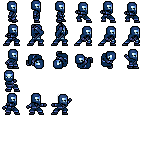
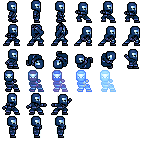
Refined casting animation.

diff --git a/lib/game/entities/classes/ninja.js b/lib/game/entities/classes/ninja.js
@@ -60,7 +60,7 @@ ig.module (
             this.addAnim('fall', 1, [17], true);
             this.addAnim('attackGround', this.attackSpeed, [6, 7, 8, 9, 10, 11], true);
             this.addAnim('attackAir', this.attackSpeed, [6, 7, 8, 9, 10, 11], true);
-            this.addAnim('cast', 1, [17], true);
+            this.addAnim('cast', 0.1, [30, 30, 30, 31, 32, 32, 31, 30], true);
             this.addAnim('throw', 0.1, [24, 25, 26, 26, 26], true);
 
             this.parent();
@@ -102,9 +102,9 @@ ig.module (
             this.stateMachine.state(this.State.CASTING, {
                 enter: function() {
                     self.state = self.State.CASTING;
-                    self.cast();
                     self.castTimer.set(self.activeSpell.castDelay);
-                    weapon.hide();
+                    self.cast();
+                    weapon.cast();
                 },
                 update: function() {
                     if (self.castTimer.delta() >= 0 && !self.activeSpell._justActivated)

diff --git a/lib/game/entities/spells/shadowClone.js b/lib/game/entities/spells/shadowClone.js
@@ -69,7 +69,7 @@ ig.module (
             this.addAnim('fall', 1, [17], true);
             this.addAnim('attackGround', this.attackSpeed, [6, 7, 8, 9, 10, 11], true);
             this.addAnim('attackAir', this.attackSpeed, [6, 7, 8, 9, 10, 11], true);
-            this.addAnim('cast', 1, [17], true);
+            this.addAnim('cast', 1, [30], true);
 
             this.anims.idle.timer = EntityPlayer.animationTimer;
 

diff --git a/lib/game/entities/weapons/weapon.js b/lib/game/entities/weapons/weapon.js
@@ -96,6 +96,12 @@ ig.module (
             this.currentAnim = this.anims.attackAir.rewind();
         },
 
+        cast: function() {
+            this.resizeToNormalBox();
+            this.offsetIdlePos();
+            this.hide();
+        },
+
         offsetIdlePos: function() {
 
         },

diff --git a/lib/game/spells/poisonBlade.js b/lib/game/spells/poisonBlade.js
@@ -14,7 +14,7 @@ ig.module(
         name: 'Spell:PoisonBlade',
         //type: this.TYPE.BUFF,
         costActivate: 10,
-        castDelay: 0.5,
+        castDelay: 0.7,
         cooldownDelay: 15,
         lastDelay: 15,
 
